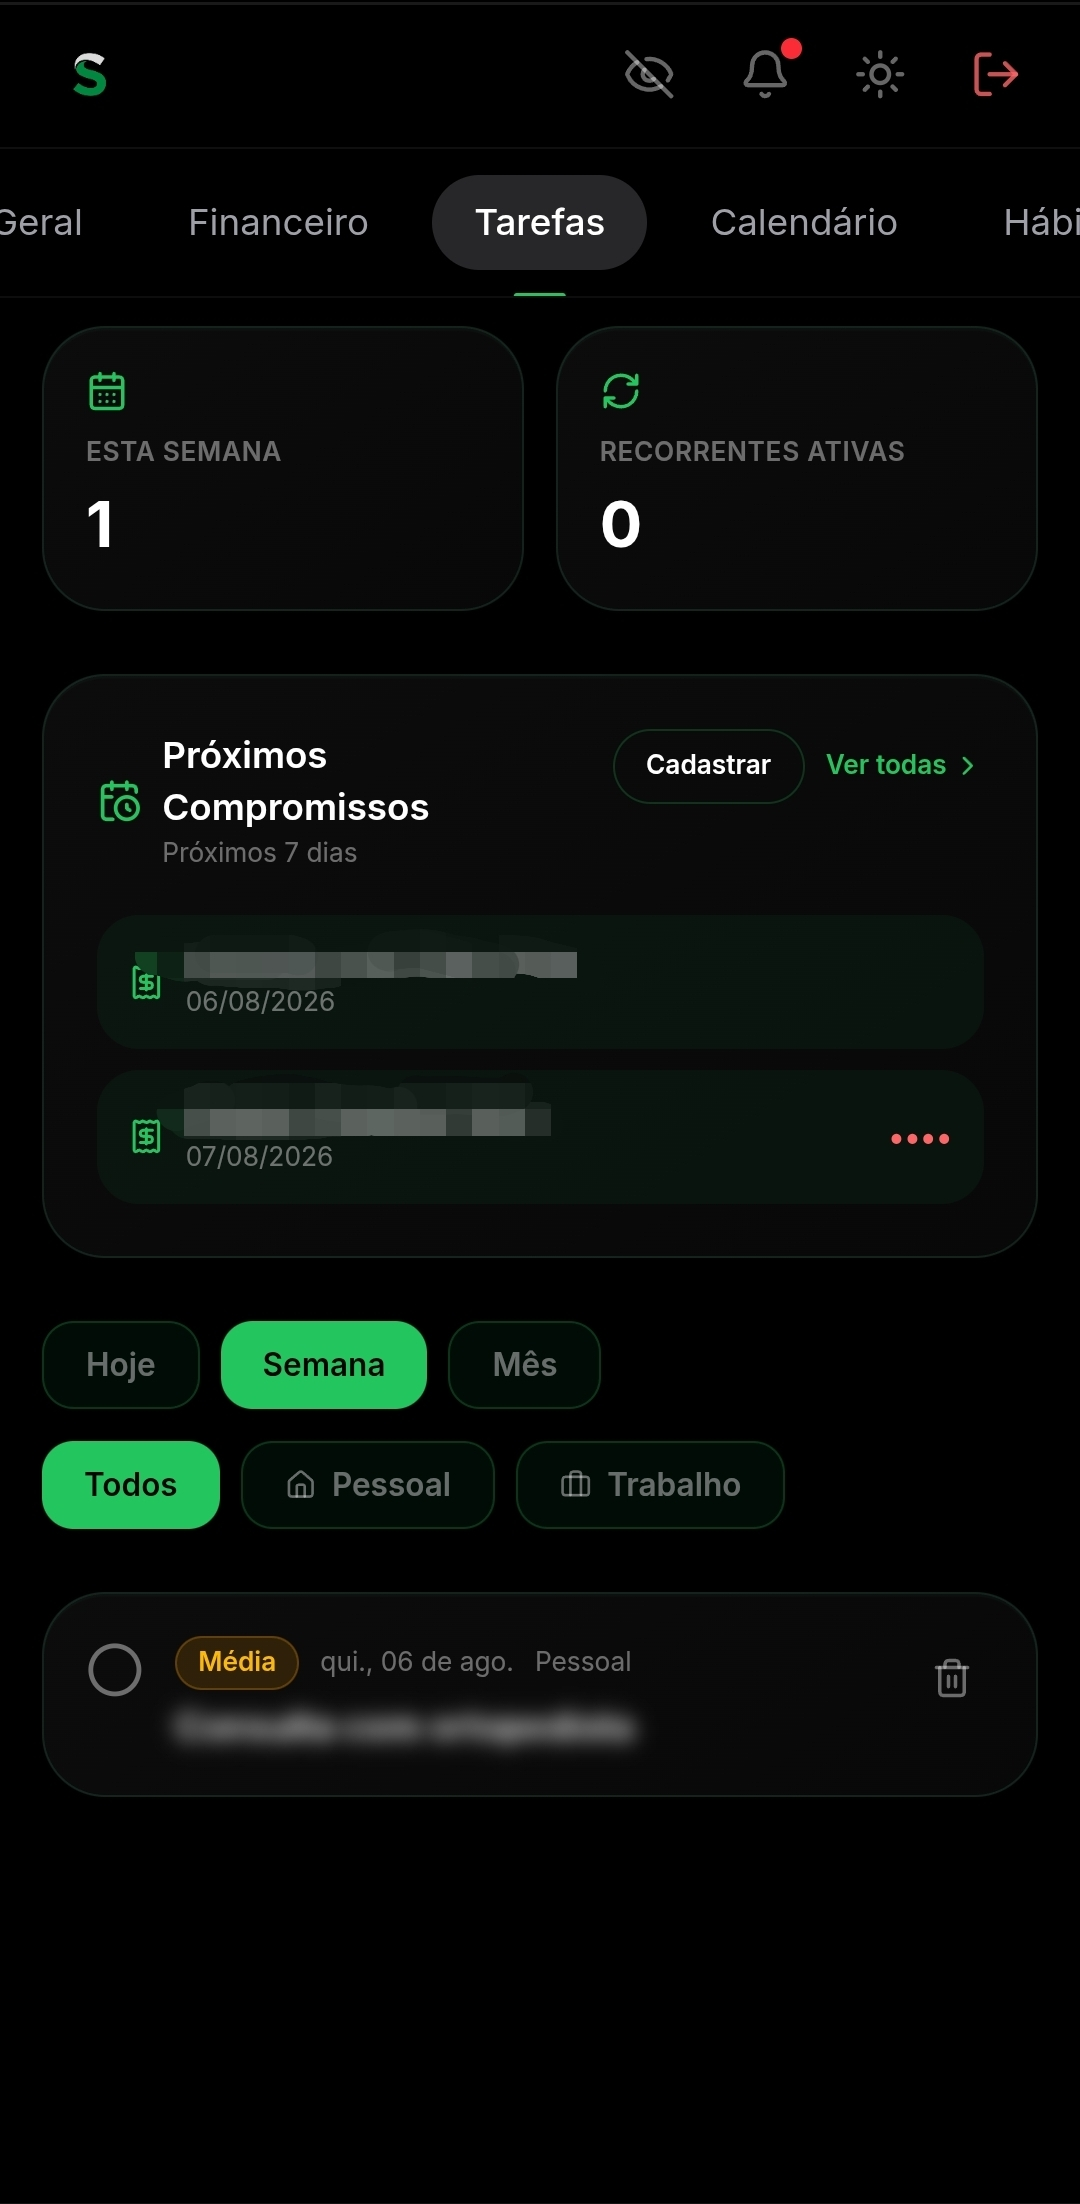
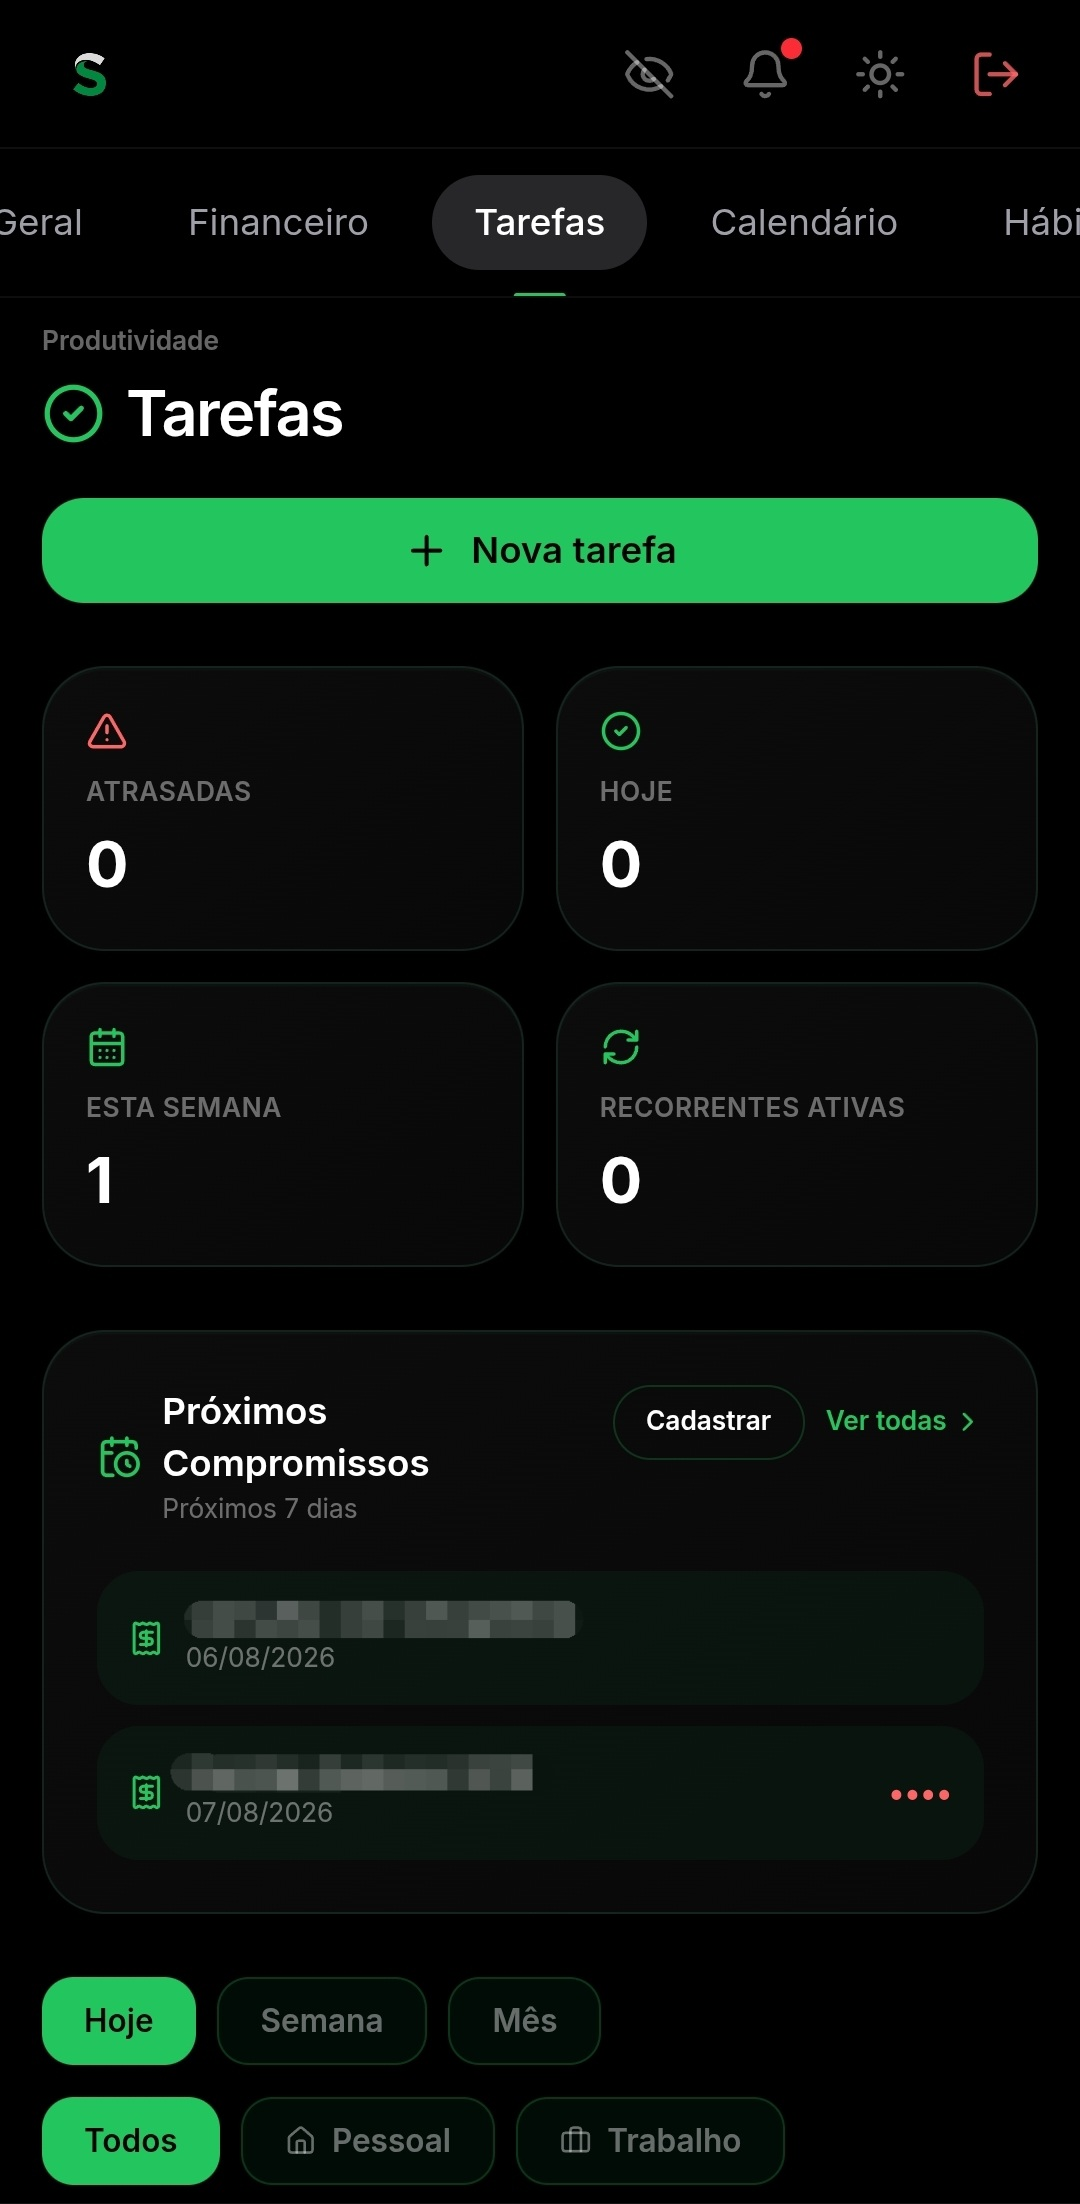
pvnv2

diff --git a/src/SalesPage.tsx b/src/SalesPage.tsx
@@ -14,6 +14,7 @@ import {
   Heart,
   Users,
   EyeOff,
+  ListChecks,
 } from 'lucide-react';
 import {
   CAKTO_ANNUAL,
@@ -148,7 +149,7 @@ export default function SalesPage() {
     setMonthlyHref(buildCaktoCheckoutUrl(CAKTO_MONTHLY));
 
     document.title =
-      'Sommar V2 — Sistema Operacional de Finanças, Produtividade e Estilo de Vida';
+      'Sommar App — Sistema Operacional de Finanças, Produtividade e Estilo de Vida';
     let meta = document.querySelector('meta[name="description"]');
     if (!meta) {
       meta = document.createElement('meta');
@@ -157,13 +158,13 @@ export default function SalesPage() {
     }
     meta.setAttribute(
       'content',
-      'Sommar V2: separe pessoal e empresarial, automatize com Marinho IA e domine finanças, tarefas e hábitos em um único sistema operacional para autônomos e empreendedores.',
+      'Sommar App: separe pessoal e empresarial, automatize com Marinho IA e domine finanças, tarefas e hábitos em um único sistema operacional para autônomos e empreendedores.',
     );
   }, []);
 
   const faqs = [
     {
-      q: 'Para quem é o Sommar V2?',
+      q: 'Para quem é o Sommar App?',
       a: 'Para autônomos, freelancers, MEIs e empreendedores que precisam organizar finanças pessoais e do negócio, tarefas, hábitos e bem-estar em um só lugar — sem planilhas e sem apps fragmentados.',
     },
     {
@@ -192,7 +193,7 @@ export default function SalesPage() {
             />
             <span className="text-lg sm:text-xl font-extrabold tracking-tight">
               <span className="text-[#22C55E]">Sommar</span>{' '}
-              <span className="text-white">V2</span>
+              <span className="text-white">App</span>
             </span>
           </div>
           <button
@@ -236,7 +237,7 @@ export default function SalesPage() {
                   <iframe
                     className="absolute top-0 left-0 w-full h-full border-0"
                     src={HERO_VIDEO_EMBED}
-                    title="Demonstração Sommar V2"
+                    title="Demonstração Sommar App"
                     allow="accelerometer; autoplay; clipboard-write; encrypted-media; gyroscope; picture-in-picture; web-share"
                     allowFullScreen
                     referrerPolicy="strict-origin-when-cross-origin"
@@ -246,7 +247,7 @@ export default function SalesPage() {
                     type="button"
                     onClick={() => setHeroVideoActive(true)}
                     className="absolute inset-0 w-full h-full group cursor-pointer"
-                    aria-label="Reproduzir vídeo Sommar V2"
+                    aria-label="Reproduzir vídeo Sommar App"
                   >
                     <img
                       src={`https://i.ytimg.com/vi/${HERO_VIDEO_ID}/hqdefault.jpg`}
@@ -286,7 +287,7 @@ export default function SalesPage() {
             <div className="mt-12 max-w-sm mx-auto">
               <FeatureShot
                 src={ASSETS.hero}
-                alt="Visão geral do dashboard Sommar V2"
+                alt="Visão geral do dashboard Sommar App"
                 priority
               />
             </div>
@@ -335,7 +336,7 @@ export default function SalesPage() {
           </div>
         </section>
 
-        {/* 2. PESSOAL VS BUSINESS */}
+        {/* 2. PESSOAL VS BUSINESS / CONTEXTOS */}
         <FeatureBlock
           eyebrow="Contextos"
           icon={Layers}
@@ -345,14 +346,35 @@ export default function SalesPage() {
               <span className="text-[#22C55E]">caixa da empresa.</span>
             </>
           }
-          description="Troque de contexto em 1 clique. Prolabore e operação ficam 100% organizados — dados, cores e métricas separados para Pessoal e Business."
+          description="Troque de contexto em 1 clique. Prolabore e operação ficam 100% organizados — dados, cores, temas e métricas separados para Pessoal e Business."
           bullets={[
             'Troca instantânea entre Pessoal e Empresarial',
+            '12 cores de temas e navegação sob medida',
             'Lucro, margem e fluxo sem misturar contas',
-            'Workspaces claros para casa e negócio',
+          ]}
+          image={ASSETS.themes}
+          imageAlt="Customização de temas e contextos Pessoal vs Business"
+        />
+
+        {/* 2b. TAREFAS */}
+        <FeatureBlock
+          eyebrow="Tarefas"
+          icon={ListChecks}
+          reverse
+          title={
+            <>
+              Gestão de tarefas no ritmo de quem{' '}
+              <span className="text-[#22C55E]">opera o próprio negócio.</span>
+            </>
+          }
+          description="Organize entregas, follow-ups e rotinas do dia a dia no mesmo sistema das suas finanças — com workspaces claros para o que é pessoal e o que é da empresa."
+          bullets={[
+            'Listas e workspaces para Pessoal e Business',
+            'Prioridades e status sem apps extras',
+            'Tudo conectado ao seu fluxo operacional',
           ]}
           image={ASSETS.workspaces}
-          imageAlt="Gestão de tarefas e workspaces Pessoal vs Business"
+          imageAlt="Gestão de tarefas e workspaces Sommar App"
         />
 
         {/* 3. COCKPIT + PDF */}
@@ -371,7 +393,7 @@ export default function SalesPage() {
             </p>
           </div>
           <div className="grid sm:grid-cols-2 gap-6 max-w-3xl mx-auto">
-            <FeatureShot src={ASSETS.cockpit} alt="Cockpit financeiro Sommar V2" />
+            <FeatureShot src={ASSETS.cockpit} alt="Cockpit financeiro Sommar App" />
             <FeatureShot
               src={ASSETS.subscriptions}
               alt="Assinaturas, insights e relatório PDF"
@@ -411,13 +433,12 @@ export default function SalesPage() {
               <span className="text-[#22C55E]">total privacidade.</span>
             </h2>
             <p className="text-xs sm:text-sm text-muted-foreground mt-3 leading-relaxed font-medium">
-              Registro de humor, dial de sono, 12 cores de temas e o Modo Olhinho para ocultar dados
-              sensíveis em locais públicos.
+              Registro de humor, dial de sono e o Modo Olhinho para ocultar dados sensíveis em
+              locais públicos.
             </p>
           </div>
-          <div className="grid sm:grid-cols-2 gap-6 max-w-3xl mx-auto">
+          <div className="max-w-md mx-auto">
             <FeatureShot src={ASSETS.wellness} alt="Bem-estar, humor e sono" />
-            <FeatureShot src={ASSETS.themes} alt="Customização de temas e navegação" />
           </div>
           <div className="mt-8 flex items-center justify-center gap-2 text-[11px] font-bold text-white/80 uppercase tracking-wider">
             <EyeOff className="w-4 h-4 text-[#22C55E]" />
@@ -443,7 +464,7 @@ export default function SalesPage() {
             'Hábitos e bem-estar sempre privados',
           ]}
           image={ASSETS.shared}
-          imageAlt="Workspaces compartilhados Sommar V2"
+          imageAlt="Workspaces compartilhados Sommar App"
         />
 
         {/* PLANOS */}
@@ -454,7 +475,7 @@ export default function SalesPage() {
           <div className="max-w-4xl mx-auto">
             <div className="text-center max-w-xl mx-auto mb-12">
               <span className="text-[10px] font-extrabold text-[#22C55E] border border-[#22C55E]/20 bg-[#22C55E]/5 px-3 py-1 rounded-full uppercase tracking-widest">
-                Acesso ao Sommar V2
+                Acesso ao Sommar App
               </span>
               <h2 className="text-2xl sm:text-3xl font-extrabold text-white uppercase tracking-tight mt-4">
                 Escolha seu plano e{' '}
@@ -496,7 +517,7 @@ export default function SalesPage() {
                   <ul className="flex flex-col gap-2.5 border-t border-border/40 pt-5 text-[11px] text-white/90 font-medium">
                     <li className="flex items-center gap-2">
                       <CheckCircle2 className="w-3.5 h-3.5 text-[#22C55E] flex-shrink-0" />
-                      Acesso total ao Sommar V2
+                      Acesso total ao Sommar App
                     </li>
                     <li className="flex items-center gap-2">
                       <CheckCircle2 className="w-3.5 h-3.5 text-[#22C55E] flex-shrink-0" />
@@ -587,7 +608,7 @@ export default function SalesPage() {
                 Garantia incondicional de 7 dias
               </h3>
               <p className="text-xs text-muted-foreground font-medium leading-relaxed">
-                Teste o Sommar V2 sem risco. Não gostou? Devolvemos 100% do valor — sem perguntas.
+                Teste o Sommar App sem risco. Não gostou? Devolvemos 100% do valor — sem perguntas.
               </p>
               <div className="flex flex-wrap justify-center gap-4 text-[10px] text-[#22C55E] font-bold uppercase tracking-wider pt-1">
                 <span className="inline-flex items-center gap-1">

diff --git a/index.html b/index.html
@@ -4,10 +4,10 @@
     <meta charset="UTF-8" />
     <link rel="icon" type="image/jpeg" href="/favicon.jpg" />
     <meta name="viewport" content="width=device-width, initial-scale=1.0" />
-    <title>Sommar V2 — Sistema Operacional de Finanças, Produtividade e Estilo de Vida</title>
+    <title>Sommar App — Sistema Operacional de Finanças, Produtividade e Estilo de Vida</title>
     <meta
       name="description"
-      content="Sommar V2: o sistema operacional definitivo para autônomos e empreendedores. Separe pessoal e empresarial, automatize com Marinho IA e domine finanças, tarefas e hábitos em um só lugar."
+      content="Sommar App: o sistema operacional definitivo para autônomos e empreendedores. Separe pessoal e empresarial, automatize com Marinho IA e domine finanças, tarefas e hábitos em um só lugar."
     />
 
     <!-- Fontes: preconnect mínimo + carga não-bloqueante (evita @import no CSS) -->

diff --git a/src/App.tsx b/src/App.tsx
@@ -126,7 +126,7 @@ export default function App() {
             Parabéns pela sua decisão, <span className="text-gradient">Founder!</span>
           </h1>
           <p className="text-sm font-medium text-muted-foreground mb-8">
-            Você acaba de profissionalizar a gestão do seu negócio e da sua vida com o Sommar V2.
+            Você acaba de profissionalizar a gestão do seu negócio e da sua vida com o Sommar App.
           </p>
 
           <div className="w-full text-left p-6 rounded-2xl gradient-border mb-8">

diff --git a/src/checkoutUrl.ts b/src/checkoutUrl.ts
@@ -1,4 +1,4 @@
-/** Checkouts oficiais Cakto — Sommar V2 */
+/** Checkouts oficiais Cakto — Sommar App */
 export const CAKTO_ANNUAL = 'https://pay.cakto.com.br/itbvz49';
 export const CAKTO_MONTHLY = 'https://pay.cakto.com.br/ni9nrpf_687767';
 
